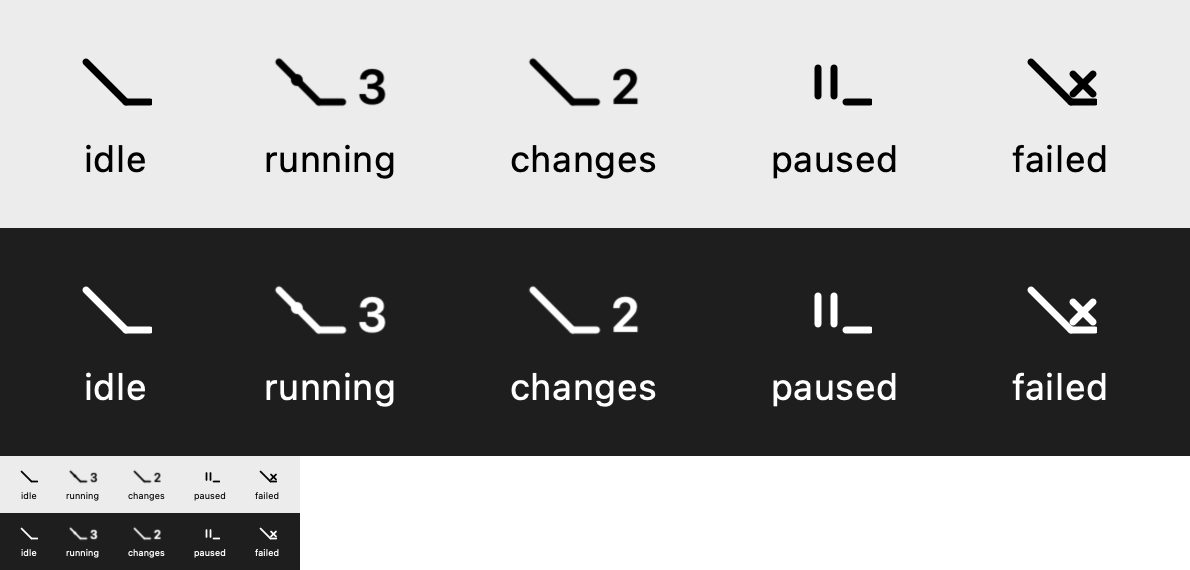
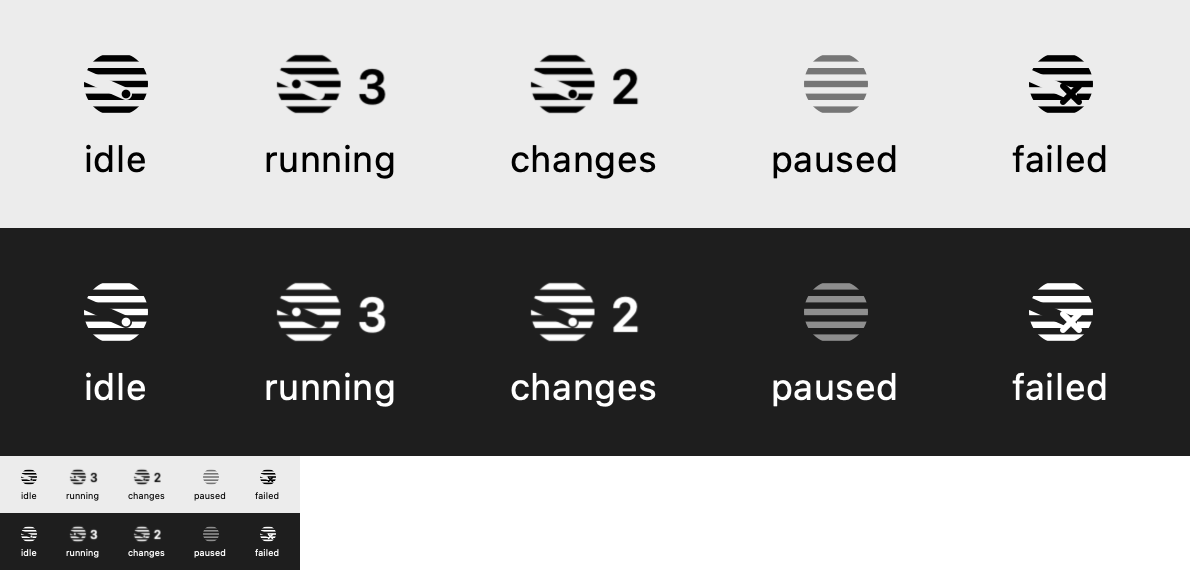
brand: new striped glide mark (v1.0.2)

diff --git a/Sources/Glidepath/App/MenuBarLabel.swift b/Sources/Glidepath/App/MenuBarLabel.swift
@@ -1,7 +1,7 @@
 import SwiftUI
 import AppKit
 
-/// The menu bar glyph states (docs/design.md, section 8). Everything is a template image: no colour.
+/// The menu bar glyph states (docs/design.md, section 7). Everything is a template image: no colour.
 enum GlyphState: Equatable {
     case idle
     case running(active: Int)
@@ -10,12 +10,22 @@ enum GlyphState: Equatable {
     case failed
 }
 
-/// Draws the glyph family. The base mark is a 14 pt slope descending left to right onto a 6 pt runway, on an 18 pt
-/// canvas, with 1.75 pt round-cap strokes. Counts are 12 pt semibold, the same in every state.
+/// Draws the glyph family: the app icon's mark in miniature, on an 18 pt canvas centred on (9, 9). A disc of
+/// horizontal stripes has a slot cut in from the upper left at 24 degrees, ending at the touchdown point T, where a
+/// dot sits. Counts are 12 pt semibold, the same in every state.
 enum MenuGlyph {
     static let canvas: CGFloat = 18
-    static let stroke: CGFloat = 1.75
     static let countFont = NSFont.systemFont(ofSize: 12, weight: .semibold)
+
+    private static let centre = NSPoint(x: 9, y: 9)
+    private static let radius: CGFloat = 8
+    private static let stripeHeight: CGFloat = 1.6
+    private static let stripePitch: CGFloat = 3.2
+    private static let slotWidth: CGFloat = 3
+    private static let slotDir = NSPoint(x: -cos(24 * CGFloat.pi / 180), y: sin(24 * CGFloat.pi / 180))
+    /// The touchdown point: the slot's end centre, and where the dot rests.
+    private static let touchdown = NSPoint(x: 11.5, y: 6.5)
+    private static let dotRadius: CGFloat = 1.1
 
     /// The glyph in `ink`. `template` marks it for the menu bar; snapshots pass false so the ink shows.
     static func image(_ state: GlyphState, progress: Double, ink: NSColor, template: Bool) -> NSImage {
@@ -28,19 +38,23 @@ enum MenuGlyph {
         let label = count.map { NSAttributedString(string: "\($0)", attributes: [.font: countFont, .foregroundColor: ink]) }
         let width = canvas + (label.map { $0.size().width + 3 } ?? 0)
         let image = NSImage(size: NSSize(width: width, height: canvas), flipped: false) { _ in
-            ink.set()
             if state == .paused {
-                pauseBars()
-                runway()
+                // Paused: the stripes alone, at half strength. No slot, no dot.
+                ink.withAlphaComponent(0.5).set()
+                stripes()
             } else {
-                slope()
-                runway()
-            }
-            if state == .failed {
-                cross()
-            }
-            if case .running = state {
-                dot(progress: progress)
+                ink.set()
+                stripes()
+                cutSlot()
+                ink.set()
+                switch state {
+                case .running:
+                    dot(at: runningPoint(progress))
+                case .failed:
+                    failMark()
+                default:
+                    dot(at: touchdown)
+                }
             }
             label?.draw(at: NSPoint(x: canvas + 3, y: (canvas - label!.size().height) / 2 - 0.5))
             return true
@@ -49,55 +63,58 @@ enum MenuGlyph {
         return image
     }
 
-    /// The slope from the top left to the runway's start. Its end is at (11.5, 4.5), where the runway begins.
-    private static let slopeStart = NSPoint(x: 1.5, y: 14.5)
-    private static let slopeEnd = NSPoint(x: 11.5, y: 4.5)
-
-    private static func slope() {
-        let line = NSBezierPath()
-        line.move(to: slopeStart)
-        line.line(to: slopeEnd)
-        line.lineWidth = stroke
-        line.lineCapStyle = .round
-        line.stroke()
+    /// Where the slot's centre line leaves the disc. The running dot starts here and travels to T.
+    private static var slotEntry: NSPoint {
+        let dx = touchdown.x - centre.x, dy = touchdown.y - centre.y
+        let b = dx * slotDir.x + dy * slotDir.y
+        let c = dx * dx + dy * dy - radius * radius
+        let s = -b + (b * b - c).squareRoot()     // distance from T along the slot to the disc edge
+        return NSPoint(x: touchdown.x + s * slotDir.x, y: touchdown.y + s * slotDir.y)
     }
 
-    private static func runway() {
-        let bar = NSBezierPath()
-        bar.move(to: slopeEnd)
-        bar.line(to: NSPoint(x: slopeEnd.x + 6, y: slopeEnd.y))
-        bar.lineWidth = stroke
-        bar.lineCapStyle = .round
-        bar.stroke()
-    }
-
-    /// Paused: two pause bars where the slope was.
-    private static func pauseBars() {
-        for x: CGFloat in [4.5, 8.5] {
-            let bar = NSBezierPath()
-            bar.move(to: NSPoint(x: x, y: 6))
-            bar.line(to: NSPoint(x: x, y: 13))
-            bar.lineWidth = stroke
-            bar.lineCapStyle = .round
-            bar.stroke()
-        }
-    }
-
-    /// A 3 pt dot moving down the slope as `progress` (0 to 1) advances.
-    private static func dot(progress: Double) {
+    /// The running dot's position: from the slot's entry (progress 0) to T (progress 1).
+    private static func runningPoint(_ progress: Double) -> NSPoint {
         let f = CGFloat(progress - floor(progress))
-        let x = slopeStart.x + (slopeEnd.x - slopeStart.x) * f
-        let y = slopeStart.y + (slopeEnd.y - slopeStart.y) * f
-        NSBezierPath(ovalIn: NSRect(x: x - 1.5, y: y - 1.5, width: 3, height: 3)).fill()
+        let e = slotEntry
+        return NSPoint(x: e.x + (touchdown.x - e.x) * f, y: e.y + (touchdown.y - e.y) * f)
     }
 
-    /// Failed: a 5 pt cross just past the touchdown point, above the runway.
-    private static func cross() {
-        let c = NSPoint(x: slopeEnd.x + 3, y: slopeEnd.y + 4.5)
+    /// Horizontal stripes, five at a 3.2 pt pitch centred on y = 9, clipped to the disc.
+    private static func stripes() {
+        NSGraphicsContext.current?.saveGraphicsState()
+        NSBezierPath(ovalIn: NSRect(x: centre.x - radius, y: centre.y - radius, width: 2 * radius, height: 2 * radius)).addClip()
+        for i in -2...2 {
+            let y = centre.y + CGFloat(i) * stripePitch
+            NSBezierPath(rect: NSRect(x: 0, y: y - stripeHeight / 2, width: canvas, height: stripeHeight)).fill()
+        }
+        NSGraphicsContext.current?.restoreGraphicsState()
+    }
+
+    /// The slot: a 3 pt capsule from well beyond the disc's upper left edge down to T, cut out of the stripes.
+    private static func cutSlot() {
+        guard let gc = NSGraphicsContext.current else { return }
+        let far = NSPoint(x: touchdown.x + 30 * slotDir.x, y: touchdown.y + 30 * slotDir.y)
+        let slot = NSBezierPath()
+        slot.move(to: far)
+        slot.line(to: touchdown)
+        slot.lineWidth = slotWidth
+        slot.lineCapStyle = .round
+        gc.saveGraphicsState()
+        gc.compositingOperation = .clear
+        slot.stroke()
+        gc.restoreGraphicsState()
+    }
+
+    private static func dot(at p: NSPoint) {
+        NSBezierPath(ovalIn: NSRect(x: p.x - dotRadius, y: p.y - dotRadius, width: 2 * dotRadius, height: 2 * dotRadius)).fill()
+    }
+
+    /// Failed: a 4 pt cross centred on T, in place of the dot. The slot stays cut.
+    private static func failMark() {
         let x = NSBezierPath()
-        x.move(to: NSPoint(x: c.x - 2.5, y: c.y - 2.5)); x.line(to: NSPoint(x: c.x + 2.5, y: c.y + 2.5))
-        x.move(to: NSPoint(x: c.x + 2.5, y: c.y - 2.5)); x.line(to: NSPoint(x: c.x - 2.5, y: c.y + 2.5))
-        x.lineWidth = stroke
+        x.move(to: NSPoint(x: touchdown.x - 2, y: touchdown.y - 2)); x.line(to: NSPoint(x: touchdown.x + 2, y: touchdown.y + 2))
+        x.move(to: NSPoint(x: touchdown.x + 2, y: touchdown.y - 2)); x.line(to: NSPoint(x: touchdown.x - 2, y: touchdown.y + 2))
+        x.lineWidth = 1.5
         x.lineCapStyle = .round
         x.stroke()
     }

diff --git a/Sources/Glidepath/CLI/CLI.swift b/Sources/Glidepath/CLI/CLI.swift
@@ -61,7 +61,7 @@ enum CLI {
         case "doctor": return Doctor.main()
         case "uninstall": return Uninstall.main(rest)
         case "--version", "version":
-            print("glidepath 1.0.0")
+            print("glidepath 1.0.2")
             return 0
         case "-h", "--help", "help":
             print(usage)

diff --git a/assets/brand/gen.py b/assets/brand/gen.py
@@ -1,0 +1,37 @@
+import math
+AMBER='#FFB020'; INK='#FFFFFF'
+def mark(R=340, n=11, ratio=0.56, angle=24, band=1.35, accent='dot', cx=512, cy=512, ink=INK, ex=0.28, ey=0.30):
+    p=2*R/n; h=p*ratio; w=p*band
+    t=math.radians(angle)
+    stripes=''.join('<rect x="%.2f" y="%.2f" width="%.2f" height="%.2f"/>'%(cx-R,cy-R+p*(i+.5)-h/2,2*R,h) for i in range(n))
+    out=('<defs><mask id="m" maskUnits="userSpaceOnUse" x="-2000" y="-2000" width="6000" height="6000">'
+         '<circle cx="%.2f" cy="%.2f" r="%.2f" fill="#fff"/>'
+         '<rect x="-2000" y="%.2f" width="%.2f" height="%.2f" rx="%.2f" fill="#000" transform="translate(%.2f %.2f) rotate(%d)"/>'
+         '</mask></defs>'%(cx,cy,R,-w/2,2000+w/2,w,w/2,cx+R*ex,cy+R*ey,angle))
+    out+='<g mask="url(#m)" fill="%s">%s</g>'%(ink,stripes)
+    if accent=='dot':
+        out+='<circle cx="%.2f" cy="%.2f" r="%.2f" fill="%s"/>'%(cx+R*ex,cy+R*ey,w*0.3,AMBER)
+    return out
+def svg(body,bg='#000',tile=False):
+    g='<rect x="100" y="100" width="824" height="824" rx="185" fill="#0B0B0C"/><rect x="101" y="101" width="822" height="822" rx="184" fill="none" stroke="#fff" stroke-opacity=".10" stroke-width="2"/>' if tile else '<rect width="1024" height="1024" fill="%s"/>'%bg
+    return '<svg xmlns="http://www.w3.org/2000/svg" width="1024" height="1024" viewBox="0 0 1024 1024">%s%s</svg>'%(g,body)
+open('mark.svg','w').write(svg(mark()))
+open('icon.svg','w').write(svg(mark(R=262),tile=True))
+open('icon-small.svg','w').write(svg(mark(R=290,n=7,ratio=0.6,band=1.05),tile=True))
+open('mark-light.svg','w').write(svg(mark(ink='#0B0B0C'),bg='#F5F5F4'))
+T="font-family=\"-apple-system,'SF Pro Display',system-ui\" font-weight=\"650\""
+def wordmark(ink):
+    return ('<svg xmlns="http://www.w3.org/2000/svg" width="1200" height="300" viewBox="0 0 1200 300">%s'
+            '<text x="310" y="212" %s font-size="168" letter-spacing="-7" fill="%s">glidepath</text></svg>')%(mark(R=118,n=9,cx=150,cy=150,ink=ink),T,ink)
+open('wordmark-light.svg','w').write(wordmark('#1D1D1F'))
+open('wordmark-dark.svg','w').write(wordmark('#F5F5F7'))
+S="font-family=\"-apple-system,'SF Pro Text',system-ui\""
+social=('<svg xmlns="http://www.w3.org/2000/svg" width="1280" height="640" viewBox="0 0 1280 640"><rect width="1280" height="640" fill="#000"/>'
+ + mark(R=220,n=11,cx=1010,cy=320) +
+ '<text x="72" y="128" %s font-size="34" letter-spacing="-1" fill="#F5F5F7">glidepath</text>'%T +
+ '<text x="72" y="300" %s font-weight="700" font-size="64" letter-spacing="-2.2" fill="#F5F5F7">PRs reviewed</text>'%T.replace(' font-weight="650"','') +
+ '<text x="72" y="374" %s font-weight="700" font-size="64" letter-spacing="-2.2" fill="#F5F5F7">before you\'re back.</text>'%T.replace(' font-weight="650"','') +
+ '<text x="72" y="438" %s font-size="26" fill="#A1A1A6">Scheduled Claude Code reviews for GitHub,</text>'%S +
+ '<text x="72" y="474" %s font-size="26" fill="#A1A1A6">landing in your Mac\'s menu bar.</text>'%S +
+ '<text x="72" y="558" font-family="ui-monospace,\'SF Mono\',monospace" font-size="21" fill="#F5F5F7">brew install yznki/tap/glidepath</text></svg>')
+open('social.svg','w').write(social)

diff --git a/docs/design.md b/docs/design.md
@@ -136,26 +136,29 @@ On the right, the ellipsis menu: a disabled "Glidepath 1.0" title, Pause or Resu
 
 ## 7. Menu bar glyph
 
-18 pt canvas, 1.75 pt round-cap strokes, template images only (no colour). The base mark is a 14 pt slope descending
-left to right onto a 6 pt runway, vertically centred.
+18 pt canvas, centred on (9, 9). Template images only (no colour). The glyph is the app icon's mark in miniature: a
+disc of horizontal stripes (radius 8 pt, five stripes 1.6 pt tall at a 3.2 pt pitch, centred on y = 9, each clipped to
+the disc), with a 3 pt rounded slot cut in from the upper left at 24 degrees. The slot ends at the touchdown point
+T = (11.5, 6.5), where the dot sits (radius 1.1 pt). The slot is cut with a clear compositing operation.
 
 | State | Glyph |
 |---|---|
-| idle | base mark |
-| running | base mark, a 3 pt dot moving down the slope (10 fps), then the active count |
-| changes waiting | base mark, then the count of PRs needing changes |
-| paused | base mark with two pause bars replacing the slope |
-| failed | base mark with a 5 pt cross of 1.75 pt strokes just past the touchdown point, above the runway |
+| idle | disc, slot and dot at T |
+| running | disc and slot; the dot moves from where the slot meets the disc edge to T as the sweep progresses (10 fps), then the active count |
+| changes waiting | idle mark, then the count of PRs needing changes |
+| paused | stripes only, at 50% ink: no slot, no dot |
+| failed | idle mark with a 4 pt cross (1.5 pt strokes, round caps) centred on T in place of the dot; the slot stays cut |
 
 Counts are 12 pt semibold, the same in every state. Changes waiting clears when the popover opens after the run ends.
 
 ## 8. App icon
 
-The icon is a space grey keycap labelled "land", with the glide slope landing an amber light on the runway bar. It is
-the brand artwork in `assets/brand/`: `icon.png` (1024 px, the full art) and `icon-small.png` (1024 px, the simplified
-art). `make-app.sh` builds the iconset with `sips`: 16 and 32 pt, and their @2x, from the simplified art;
-128, 256 and 512 pt, and their @2x, from the full art. `iconutil` packs the `.icns`, and `codesign` signs it ad hoc.
-The menu bar glyphs stay drawn in code.
+The app icon is the brand artwork in `assets/brand/`: a disc of white horizontal stripes on a near-black rounded tile,
+with a slot cut in from the upper left and an amber (#FFB020) touchdown dot at its end. `icon.png` (1024 px, the full
+art) and `icon-small.png` (1024 px, the simplified art) are the sources. `assets/brand/gen.py` regenerates the SVGs and
+the wordmark, social and tile art. `make-app.sh` builds the iconset with `sips`: 16 and 32 pt, and their @2x, from the
+simplified art; 128, 256 and 512 pt, and their @2x, from the full art. `iconutil` packs the `.icns`, and `codesign`
+signs it ad hoc. The menu bar glyph is drawn in code (section 7) and does not use the artwork.
 
 The icon sheet (`docs/shots/icon.png`) shows every size of the built iconset, with 512 and 256 @2x shown at 256 px so
 the sheet fits. The labels give the size.
@@ -170,7 +173,6 @@ the sheet fits. The labels give the size.
   without it.
 - **Carried-over rows**: after a failed sweep, a PR with no verdict in the run takes the newest earlier verdict and the
   start of the run that decided it. The row shows "from 10:12 AM" on line 2.
-- **Menu bar cross**: placed just past the touchdown point rather than centred on it, so it does not sit on the runway.
 - **Popover height**: the popover is capped at 640 pt. Past that, the list scrolls.
 - **Not in this design**: the bold landing moment beyond the slide, and the appearance of the mark, wait for v1.1.
 

diff --git a/README.md b/README.md
@@ -117,9 +117,9 @@ PR is a dot on the slope at the stage it is in.
 - Footer: Run now (or Resume while paused, or Stop while running) on the left, and a menu on the right with Pause,
   Open log, the last run's token count, Open at login and Quit. On a first run, Edit repos… opens the config file.
 - The popover is at most 640 pt tall. Past that, the list scrolls.
-- Menu bar: a glyph echoing the profile. A moving dot while running (with the count of active PRs), a count when
-  changes are waiting (cleared when you open the popover), pause bars while paused, and the slope with a cross for a
-  failed run.
+- Menu bar: a glyph echoing the app icon, a striped disc with a slot cut into it. A dot moves along the slot while
+  running (with the count of active PRs), a count when changes are waiting (cleared when you open the popover), faded
+  stripes while paused, and a cross at the touchdown point for a failed run.
 - Stop signals the running sweep's process group. Reviews already posted stay posted; the PRs not yet reviewed show
   "No result".
 
